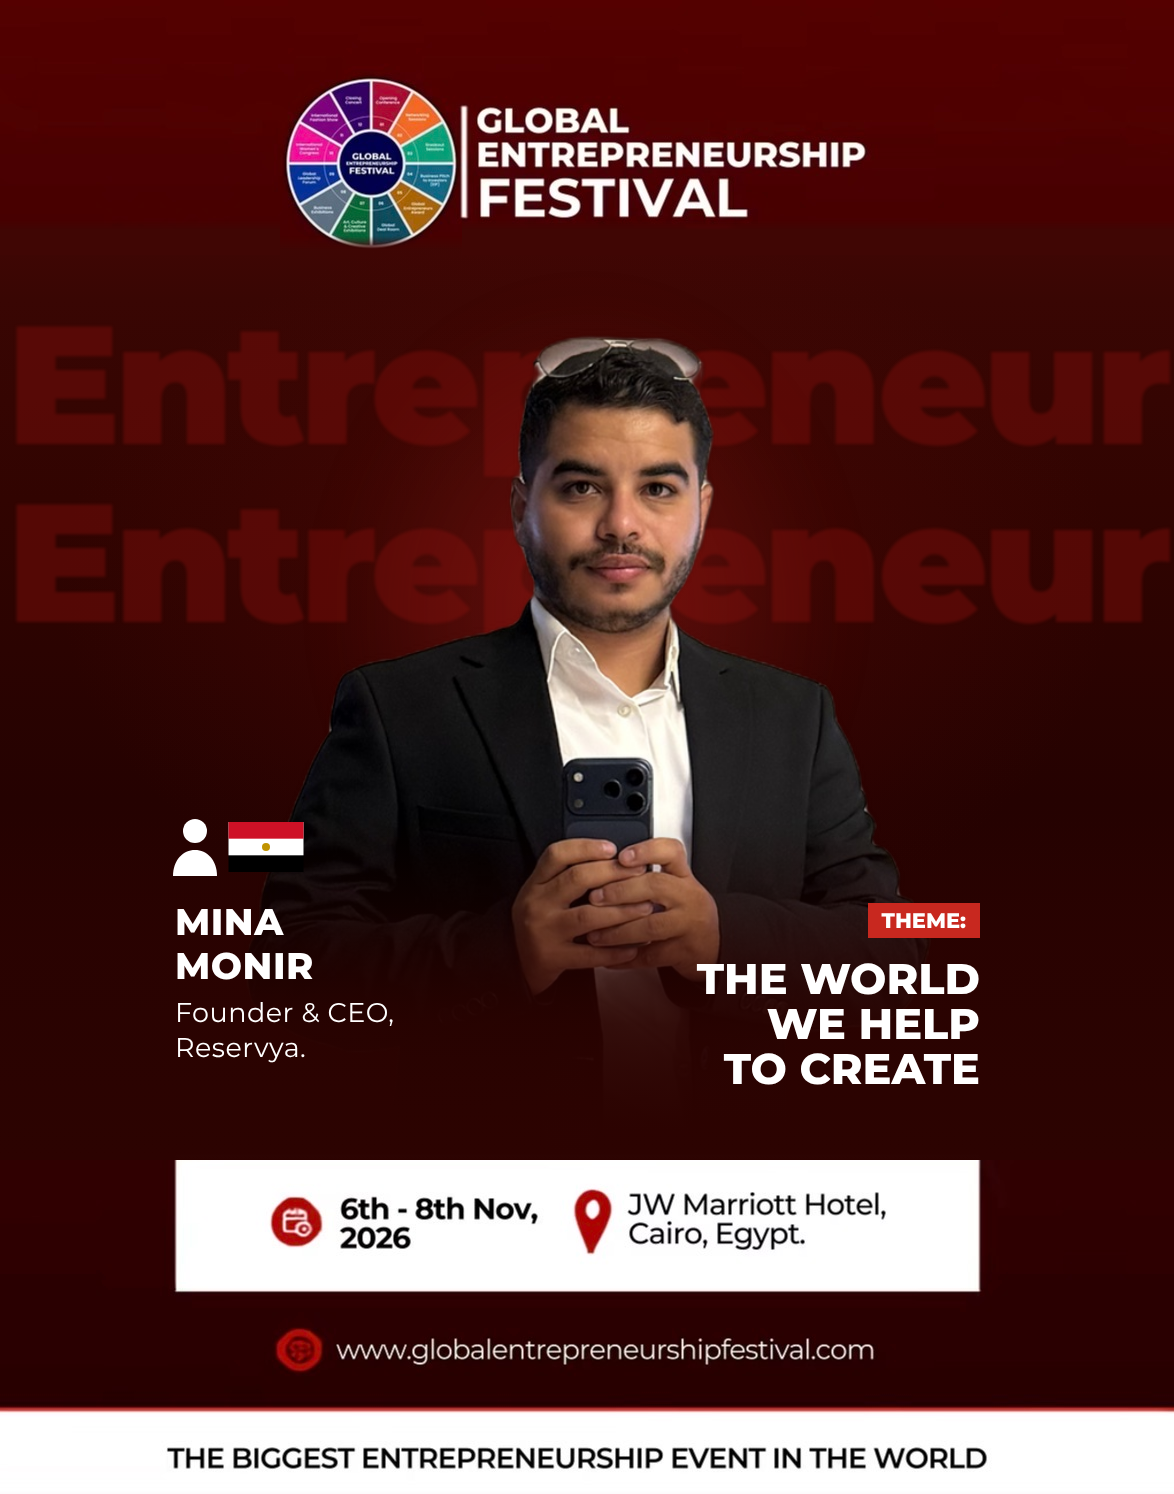
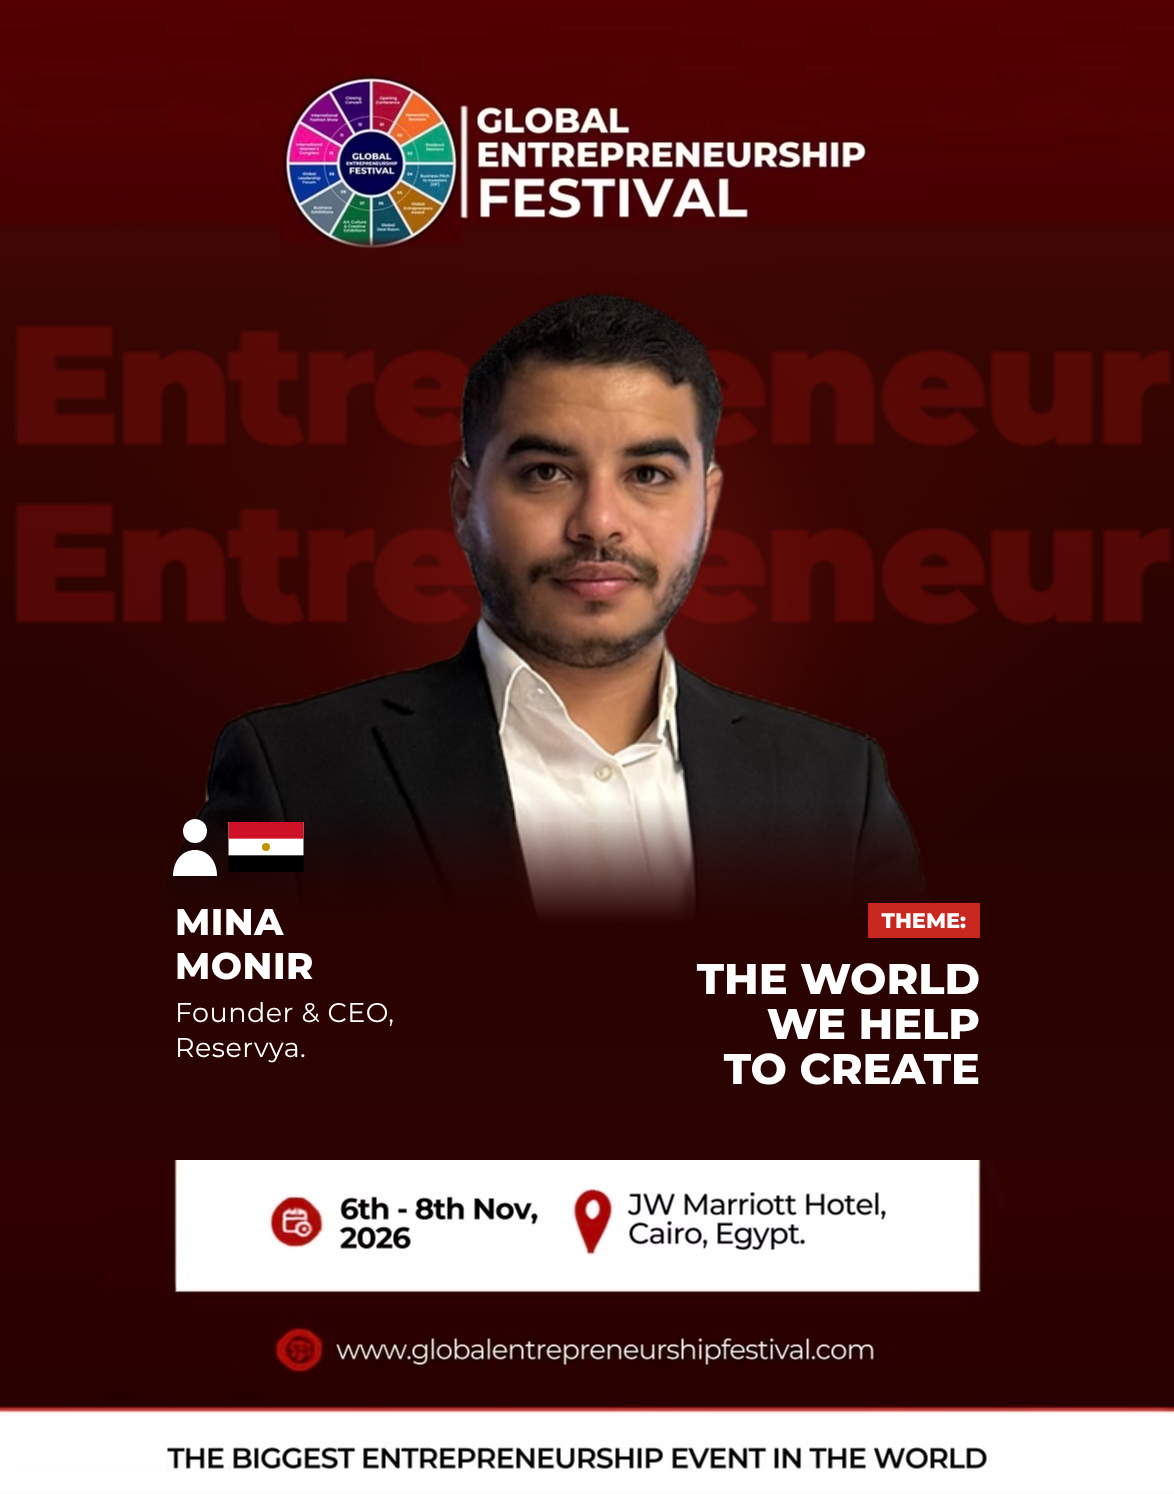
GEF poster: remove sunglasses and phone, switch to chest-up portrait
Claude-Session: https://claude.ai/code/session_016WiCpDsXi4FgujHNgSUWvt

Changed region(s): [[0.1533, 0.1847, 0.7666, 0.6774], [0.6746, 0.585, 0.7053, 0.6158]]

diff --git a/posts/gef-entrepreneur/poster.html b/posts/gef-entrepreneur/poster.html
@@ -11,8 +11,8 @@ body{background:#000}
 .patch{position:absolute;top:220px;height:35px;background:rgb(64,6,4);-webkit-mask-image:linear-gradient(#0000,#000 10px)}
 .wm{position:absolute;left:-10px;right:-10px;text-align:center;font:900 168px/1 Montserrat;letter-spacing:-5px;color:#6e0c09;opacity:.6;filter:blur(1.5px)}
 .glow{position:absolute;left:337px;top:300px;width:500px;height:620px;border-radius:50%;background:radial-gradient(#a0201a66,#0000 70%);filter:blur(30px)}
-.me{position:absolute;left:127px;top:285px;width:920px;
-  -webkit-mask-image:linear-gradient(#000 0,#000 620px,#0000 850px)}
+.me{position:absolute;left:-67px;top:199px;width:1240px;
+  -webkit-mask-image:linear-gradient(#000 0,#000 600px,#0000 725px)}
 .shade{position:absolute;left:0;right:0;top:820px;height:340px;background:linear-gradient(rgba(42,3,1,0),rgba(42,3,1,.85) 60%,rgb(44,3,1))}
 .name{position:absolute;left:175px;top:900px;font:800 37px/1.2 Montserrat;letter-spacing:.5px}
 .role{font:400 27px/1.32 Montserrat;margin-top:6px}
@@ -28,7 +28,7 @@ body{background:#000}
   <div class="wm" style="top:300px">Entrepreneur</div>
   <div class="wm" style="top:478px">Entrepreneur</div>
   <div class="glow"></div>
-  <img class="me" src="assets/mina-torso.png">
+  <img class="me" src="assets/mina-bust.png">
   <div class="shade"></div>
   <div class="icon">
     <svg width="46" height="58" viewBox="0 0 46 58"><circle cx="23" cy="13" r="12" fill="#fff"/><path d="M1 58c0-16 10-26 22-26s22 10 22 26z" fill="#fff"/></svg>

diff --git a/posts/gef-entrepreneur/tools/remove_glasses.py b/posts/gef-entrepreneur/tools/remove_glasses.py
@@ -1,0 +1,27 @@
+# Remove the sunglasses resting on the hair from the cutout.
+# Everything above a smooth crown arc becomes transparent; glasses pixels left over the hair
+# (lighter than the near-black hair) plus a thin band under the arc are inpainted with hair.
+import sys, numpy as np, cv2
+from PIL import Image
+im = np.array(Image.open(sys.argv[1]).convert('RGBA'))
+H, W = im.shape[:2]
+X0, X1, Y0, Y1 = 925, 1112, 585, 675                     # glasses box (source pixels)
+xs = np.array([938, 960, 1020, 1080, 1100]); ys = np.array([668, 640, 624, 640, 668])
+arc = np.polyval(np.polyfit(xs, ys, 2), np.arange(W))     # crown line
+yy, xx = np.mgrid[0:H, 0:W]
+inbox = (xx >= X0) & (xx < X1) & (yy >= Y0) & (yy < Y1)
+above = inbox & (yy < arc[xx])
+lum = im[..., :3].astype(int).mean(-1)
+im[above, :3] = (25, 20, 20); im[above, 3] = 0
+glass = inbox & ~above & (((lum >= 50) & (yy < 660)) | (yy < arc[xx] + 10)) & (im[..., 3] > 0)
+glass = cv2.dilate(glass.astype(np.uint8), np.ones((3, 3), np.uint8)) & inbox
+bgr = cv2.cvtColor(np.ascontiguousarray(im[..., :3]), cv2.COLOR_RGB2BGR)
+fill = cv2.inpaint(bgr, glass.astype(np.uint8) * 255, 9, cv2.INPAINT_TELEA)
+# add a little hair grain so the fill is not flat
+noise = np.random.default_rng(1).normal(0, 7, fill.shape[:2])[..., None]
+fill = np.where(glass[..., None] > 0, (fill + noise).clip(0, 255), fill).astype(np.uint8)
+im[..., :3] = cv2.cvtColor(fill, cv2.COLOR_BGR2RGB)
+# feathered crown edge
+edge = np.clip((yy - arc[xx]) / 3.0, 0, 1)
+im[..., 3] = np.where(inbox, im[..., 3] * edge, im[..., 3]).astype(np.uint8)
+Image.fromarray(im).save(sys.argv[2])

diff --git a/posts/gef-entrepreneur/tools/remove_phone.py b/posts/gef-entrepreneur/tools/remove_phone.py
@@ -1,0 +1,16 @@
+# Replace the top of the phone with the shirt/lapel continued from the rows just above it,
+# then crop chest-up so the poster fades out before the hands.
+import sys, numpy as np
+from PIL import Image
+im = np.array(Image.open(sys.argv[1]).convert('RGBA')).astype(float)
+X0, X1, Y0, Y1, REF = 955, 1056, 962, 1075, 958
+src = im[REF - 6:REF + 1, :, :].mean(0)                  # averaged reference row
+rng = np.random.default_rng(2)
+for y in range(Y0, Y1):
+    dx = (y - REF) * 0.22                                # V of the shirt narrows going down
+    xs = np.clip(np.arange(X0, X1) - dx, 0, im.shape[1] - 1)
+    row = np.array([np.interp(xs, np.arange(im.shape[1]), src[:, c]) for c in range(4)]).T
+    row[:, :3] += rng.normal(0, 3, (len(xs), 1))
+    w = np.clip(np.minimum(np.arange(X0, X1) - X0, X1 - 1 - np.arange(X0, X1)) / 4, 0, 1)[:, None]
+    im[y, X0:X1] = row * w + im[y, X0:X1] * (1 - w)
+Image.fromarray(im.clip(0, 255).astype(np.uint8)).crop((590, 560, 1390, 1080)).save(sys.argv[2])
